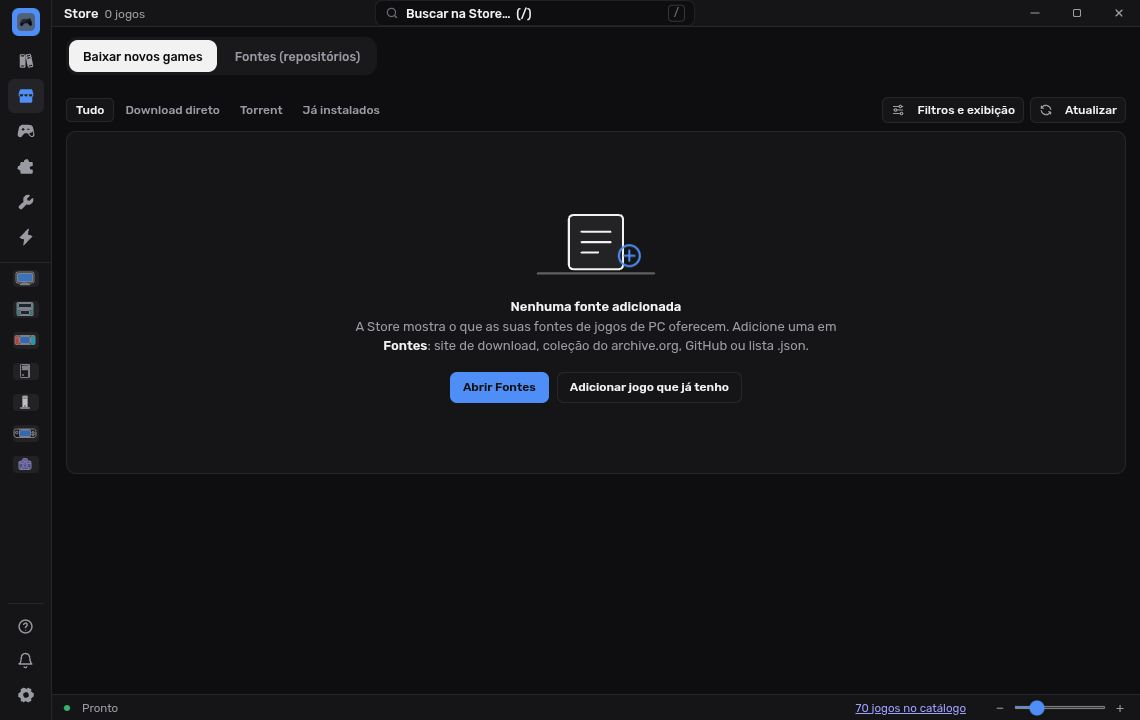
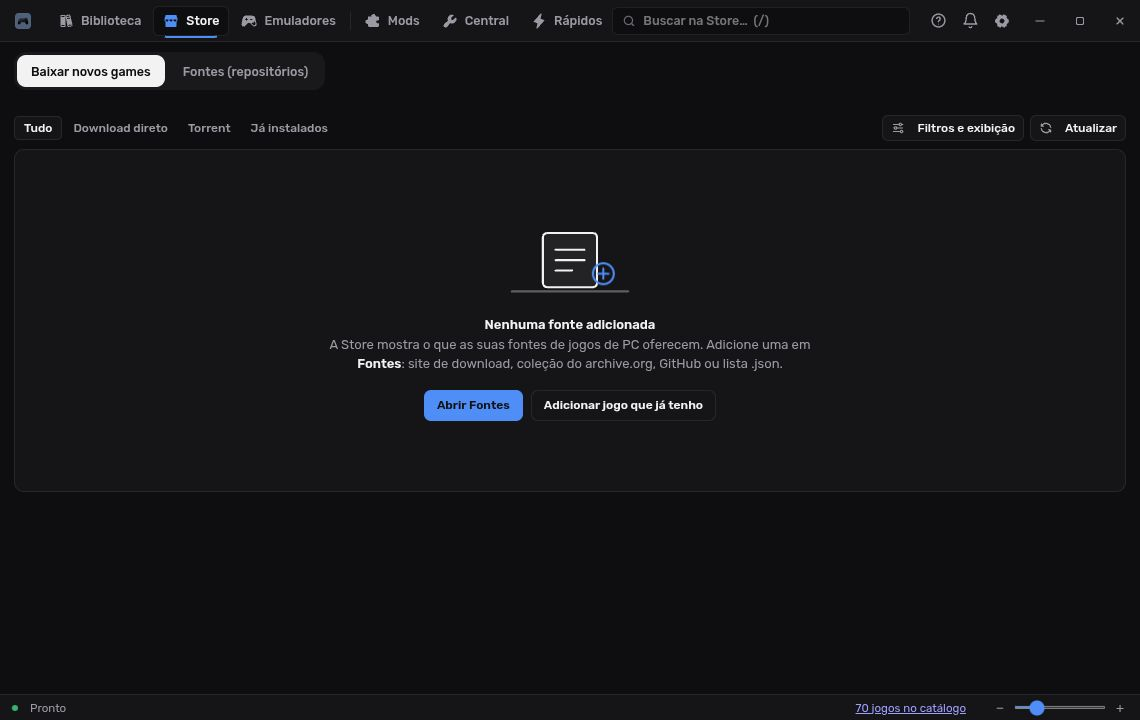
Ludrix 4.0.22

diff --git a/src/renderer/base.css b/src/renderer/base.css
@@ -532,32 +532,32 @@ html body.bs[data-face][data-layout=rail] header.top .sp{flex:0 0 150px}
 html body.bs[data-face][data-layout=rail] header.top .wctl{margin-left:0}
 html body.bs[data-face] header.top .crumb{display:none}
 
-html body.bs[data-face][data-layout=rail] .view{padding:0 14px 24px}
-html body.bs[data-face][data-layout=rail] .h1{margin:0 -14px 2px;padding:5px 14px 5px;gap:6px;background:var(--bg)}
-html body.bs[data-face][data-layout=rail] .h1 h2,html body.bs[data-face][data-layout=rail] .h1 .cnt{display:none}
-html body.bs[data-face][data-layout=rail] .h1 .qchips .chip,html body.bs[data-face][data-layout=rail] .h1 .chips .chip{height:24px;padding:0 9px;border-radius:5px;font-size:12px;border:0;background:transparent;color:var(--muted)}
-html body.bs[data-face][data-layout=rail] .h1 .qchips .chip.on,html body.bs[data-face][data-layout=rail] .h1 .chips .chip.on{background:var(--bg2);color:var(--text);font-weight:500;border:1px solid var(--line)}
-html body.bs[data-face][data-layout=rail] .h1 .btn.xs,html body.bs[data-face][data-layout=rail] .h1 .dd,html body.bs[data-face][data-layout=rail] .h1 .filt>.btn{height:26px;padding:0 8px;font-size:12px;border-radius:6px}
-html body.bs[data-face][data-layout=rail] .h1 .btn.xs.ic{width:26px}
-html body.bs[data-face][data-layout=rail] .h1 .btn.xs.p{background:var(--text);border-color:var(--text);color:var(--bg);font-weight:500;padding:0 10px}
-html body.bs[data-face][data-layout=rail] .h1 .btn.xs.p svg{color:var(--bg)}
-html body.bs[data-face][data-layout=rail] .ggh{top:36px;padding:8px 0 6px;gap:10px}
-html body.bs[data-face][data-layout=rail] .grid{gap:12px 10px;padding-top:2px}
-html body.bs[data-face][data-layout=rail] .card .cov{border-radius:6px;border:1px solid var(--line);outline:0;box-shadow:none;transition:outline-color .15s}
-html body.bs[data-face][data-layout=rail] .card:hover .cov,html body.bs[data-face][data-layout=rail] .card.sel .cov,html body.bs[data-face][data-layout=rail] .card.gp-focus .cov{outline:2px solid var(--text);outline-offset:-1px}
-html body.bs[data-face][data-layout=rail] .grid .card:hover,html body.bs[data-face][data-layout=rail] .grid .card.gp-focus{transform:none;box-shadow:none;background:transparent}
-html body.bs[data-face][data-layout=rail] .grid .card:hover .cov,html body.bs[data-face][data-layout=rail] .grid .card.gp-focus .cov{transform:none;box-shadow:none}
-html body.bs[data-face][data-layout=rail] .card h4{font-size:13px;padding-top:6px}
-html body.bs[data-face][data-layout=rail] .card .sub.ci{font-size:11.5px;color:var(--muted);padding-top:1px}
-html body.bs[data-face][data-layout=rail] .card .qp{width:28px;height:28px;right:6px;bottom:6px;background:var(--text);color:var(--bg);box-shadow:0 2px 8px rgba(0,0,0,.4);transform:none}
-html body.bs[data-face][data-layout=rail] .card .qp svg{width:13px;height:13px}
-html body.bs[data-face][data-layout=rail] .card .rib{top:6px;bottom:auto;left:6px;font:600 9.5px/1 var(--font-text);letter-spacing:.4px;padding:3px 5px;border-radius:3px;background:rgba(0,0,0,.62);color:#fff;box-shadow:none}
-html body.bs[data-face][data-layout=rail] .card .rib.today{background:rgba(0,0,0,.62)}
-html body.bs[data-face][data-layout=rail] .card .rib.upd{background:rgba(0,0,0,.62)}
-html body.bs[data-face][data-layout=rail] .status{padding:0 12px;gap:12px;font-size:11.5px}
-html body.bs[data-face][data-layout=rail] .toast{border-radius:8px;padding:9px 10px 9px 12px;min-width:260px;gap:10px}
-html body.bs[data-face][data-layout=rail] .toast .x{width:22px;height:22px}
-html body.bs[data-face][data-layout=rail] .toasts{top:calc(var(--tb,0px) + 82px);right:14px}
+html body.bs[data-face]:is([data-layout=rail],[data-layout=top]) .view{padding:0 14px 24px}
+html body.bs[data-face]:is([data-layout=rail],[data-layout=top]) .h1{margin:0 -14px 2px;padding:5px 14px 5px;gap:6px;background:var(--bg)}
+html body.bs[data-face]:is([data-layout=rail],[data-layout=top]) .h1 h2,html body.bs[data-face]:is([data-layout=rail],[data-layout=top]) .h1 .cnt{display:none}
+html body.bs[data-face]:is([data-layout=rail],[data-layout=top]) .h1 .qchips .chip,html body.bs[data-face]:is([data-layout=rail],[data-layout=top]) .h1 .chips .chip{height:24px;padding:0 9px;border-radius:5px;font-size:12px;border:0;background:transparent;color:var(--muted)}
+html body.bs[data-face]:is([data-layout=rail],[data-layout=top]) .h1 .qchips .chip.on,html body.bs[data-face]:is([data-layout=rail],[data-layout=top]) .h1 .chips .chip.on{background:var(--bg2);color:var(--text);font-weight:500;border:1px solid var(--line)}
+html body.bs[data-face]:is([data-layout=rail],[data-layout=top]) .h1 .btn.xs,html body.bs[data-face]:is([data-layout=rail],[data-layout=top]) .h1 .dd,html body.bs[data-face]:is([data-layout=rail],[data-layout=top]) .h1 .filt>.btn{height:26px;padding:0 8px;font-size:12px;border-radius:6px}
+html body.bs[data-face]:is([data-layout=rail],[data-layout=top]) .h1 .btn.xs.ic{width:26px}
+html body.bs[data-face]:is([data-layout=rail],[data-layout=top]) .h1 .btn.xs.p{background:var(--text);border-color:var(--text);color:var(--bg);font-weight:500;padding:0 10px}
+html body.bs[data-face]:is([data-layout=rail],[data-layout=top]) .h1 .btn.xs.p svg{color:var(--bg)}
+html body.bs[data-face]:is([data-layout=rail],[data-layout=top]) .ggh{top:36px;padding:8px 0 6px;gap:10px}
+html body.bs[data-face]:is([data-layout=rail],[data-layout=top]) .grid{gap:12px 10px;padding-top:2px}
+html body.bs[data-face]:is([data-layout=rail],[data-layout=top]) .card .cov{border-radius:6px;border:1px solid var(--line);outline:0;box-shadow:none;transition:outline-color .15s}
+html body.bs[data-face]:is([data-layout=rail],[data-layout=top]) .card:hover .cov,html body.bs[data-face]:is([data-layout=rail],[data-layout=top]) .card.sel .cov,html body.bs[data-face]:is([data-layout=rail],[data-layout=top]) .card.gp-focus .cov{outline:2px solid var(--text);outline-offset:-1px}
+html body.bs[data-face]:is([data-layout=rail],[data-layout=top]) .grid .card:hover,html body.bs[data-face]:is([data-layout=rail],[data-layout=top]) .grid .card.gp-focus{transform:none;box-shadow:none;background:transparent}
+html body.bs[data-face]:is([data-layout=rail],[data-layout=top]) .grid .card:hover .cov,html body.bs[data-face]:is([data-layout=rail],[data-layout=top]) .grid .card.gp-focus .cov{transform:none;box-shadow:none}
+html body.bs[data-face]:is([data-layout=rail],[data-layout=top]) .card h4{font-size:13px;padding-top:6px}
+html body.bs[data-face]:is([data-layout=rail],[data-layout=top]) .card .sub.ci{font-size:11.5px;color:var(--muted);padding-top:1px}
+html body.bs[data-face]:is([data-layout=rail],[data-layout=top]) .card .qp{width:28px;height:28px;right:6px;bottom:6px;background:var(--text);color:var(--bg);box-shadow:0 2px 8px rgba(0,0,0,.4);transform:none}
+html body.bs[data-face]:is([data-layout=rail],[data-layout=top]) .card .qp svg{width:13px;height:13px}
+html body.bs[data-face]:is([data-layout=rail],[data-layout=top]) .card .rib{top:6px;bottom:auto;left:6px;font:600 9.5px/1 var(--font-text);letter-spacing:.4px;padding:3px 5px;border-radius:3px;background:rgba(0,0,0,.62);color:#fff;box-shadow:none}
+html body.bs[data-face]:is([data-layout=rail],[data-layout=top]) .card .rib.today{background:rgba(0,0,0,.62)}
+html body.bs[data-face]:is([data-layout=rail],[data-layout=top]) .card .rib.upd{background:rgba(0,0,0,.62)}
+html body.bs[data-face]:is([data-layout=rail],[data-layout=top]) .status{padding:0 12px;gap:12px;font-size:11.5px}
+html body.bs[data-face]:is([data-layout=rail],[data-layout=top]) .toast{border-radius:8px;padding:9px 10px 9px 12px;min-width:260px;gap:10px}
+html body.bs[data-face]:is([data-layout=rail],[data-layout=top]) .toast .x{width:22px;height:22px}
+html body.bs[data-face]:is([data-layout=rail],[data-layout=top]) .toasts{top:calc(var(--tb,0px) + 82px);right:14px}
 html body.bs[data-face][data-detart=off] .dhero::before{display:none}
 html body.bs[data-face][data-detart=off] .dhero .dcov{margin:14px 24px 0 36px;width:150px}
 html body.bs[data-face][data-detart=off] .dcov img,html body.bs[data-face][data-detart=off] .dcov .dph{outline:0;border:1px solid var(--line)}
@@ -567,4 +567,49 @@ html body.bs[data-face][data-detart=off] .dhead .acts>.btn.g,html body.bs[data-f
 html body.bs[data-face][data-detart=off] .dhead .acts>.btn.g,html body.bs[data-face][data-detart=off] .dhead .acts>.btn.p{padding:0 18px}
 html body.bs[data-face][data-detart=off] .dclose{position:relative;top:auto;left:auto;margin:12px 0 0 36px;background:transparent;color:var(--muted);border:1px solid var(--line);height:26px;font-size:12px}
 html body.bs[data-face][data-detart=off] .dclose:hover{color:var(--text);background:var(--bg2)}
-@media (max-width:1000px){html body.bs[data-face][data-layout=rail] .h1 .qchips{order:0;flex:1 0 100%;padding:0 0 4px;margin-bottom:2px;border-bottom:1px solid var(--line)}html body.bs[data-face][data-layout=rail] .h1 .sp{flex:1}}
+@media (max-width:1000px){html body.bs[data-face]:is([data-layout=rail],[data-layout=top]) .h1 .qchips{order:0;flex:1 0 100%;padding:0 0 4px;margin-bottom:2px;border-bottom:1px solid var(--line)}html body.bs[data-face]:is([data-layout=rail],[data-layout=top]) .h1 .sp{flex:1}}
+
+html body.bs[data-face][data-layout=top]{--toph:42px}
+html body.bs[data-face][data-layout=top] .rail{padding:0 8px 0 10px;gap:0;background:var(--bg2)}
+html body.bs[data-face][data-layout=top] .rail .brandrow{padding:0 8px 0 0;margin:0 4px 0 0}
+html body.bs[data-face][data-layout=top] .rail .brand{width:26px;height:26px;border-radius:6px}
+html body.bs[data-face][data-layout=top] .rail .brand svg,html body.bs[data-face][data-layout=top] .rail .brand img{width:16px;height:16px}
+html body.bs[data-face][data-layout=top] .rail .bname{display:none}
+html body.bs[data-face][data-layout=top] .rb,html body.bs[data-face][data-layout=top] .rail .rb{height:30px;padding:0 10px;gap:7px;border-radius:6px;font-size:12.5px}
+html body.bs[data-face][data-layout=top] .rail .rb svg{width:16px;height:16px}
+html body.bs[data-face][data-layout=top] .rail .rb.on{background:var(--bg);box-shadow:inset 0 0 0 1px var(--line)}
+html body.bs[data-face][data-layout=top] .rail .rsep{margin:0 4px}
+html body.bs[data-face][data-layout=top] .rail .search{position:relative;flex:0 1 300px;min-width:120px;margin:0 8px 0 auto;padding:0}
+html body.bs[data-face][data-layout=top] .rail .search input{height:28px;font-size:12.5px;padding-left:30px;background:var(--bg);border:1px solid var(--line);border-radius:6px;width:100%}
+html body.bs[data-face][data-layout=top] .rail .search svg{width:14px;height:14px;left:10px}
+html body.bs[data-face][data-layout=top] .rail .search kbd,html body.bs[data-face][data-layout=top] .rail .search .kb{display:none}
+html body.bs[data-face][data-layout=top] .rail .sp{flex:0 0 0}
+html body.bs[data-face][data-layout=top] .rail .rbot{gap:0;padding-left:4px}
+html body.bs[data-face][data-layout=top] .rail .rbot .bell,html body.bs[data-face][data-layout=top] .rail .rbot .rb{width:32px;height:30px;border-radius:6px}
+html body.bs[data-face][data-layout=top] .rail .rbot #profBtn .pav{width:22px;height:22px;font-size:9.5px}
+html body.bs[data-face][data-layout=top] header.top{display:none!important}
+html body.bs[data-face][data-layout=top] .ggh{top:0}
+html body.bs[data-face][data-layout=top] .h1{padding-top:8px}
+html body.bs[data-face][data-layout=top] .ggh{top:40px}
+body.frameless[data-layout=top] .rail .wctl{margin:0 -8px 0 2px}
+body.frameless[data-layout=top] .rail .wctl button{width:40px}
+html body.bs[data-face]:is([data-layout=rail],[data-layout=top]) .gpanel{border-left:1px solid var(--line);border-radius:0;background:var(--bg2)}
+html body.bs[data-face]:is([data-layout=rail],[data-layout=top]) .gpanel .gband{height:0;background:transparent!important}
+html body.bs[data-face]:is([data-layout=rail],[data-layout=top]) .gpanel .gclose{top:10px;right:10px;background:transparent;color:var(--muted);border:1px solid var(--line);width:26px;height:26px;z-index:2}
+html body.bs[data-face]:is([data-layout=rail],[data-layout=top]) .gpanel .gclose:hover{color:var(--text);background:var(--bg)}
+html body.bs[data-face]:is([data-layout=rail],[data-layout=top]) .gpanel .ghead{margin-top:14px;padding:0 16px;align-items:flex-start;gap:12px}
+html body.bs[data-face]:is([data-layout=rail],[data-layout=top]) .gpanel .gcov{width:96px;outline:0;border:1px solid var(--line);border-radius:6px}
+html body.bs[data-face]:is([data-layout=rail],[data-layout=top]) .gpanel .gti{padding:4px 28px 0 0}
+html body.bs[data-face]:is([data-layout=rail],[data-layout=top]) .gpanel h1{font-size:16px}
+html body.bs[data-face]:is([data-layout=rail],[data-layout=top]) .gpanel .gacts{padding:14px 16px 0}
+html body.bs[data-face]:is([data-layout=rail],[data-layout=top]) .gpanel .gacts .btn.p{height:32px;font-size:13px;background:var(--text);border-color:var(--text);color:var(--bg)}
+html body.bs[data-face]:is([data-layout=rail],[data-layout=top]) .gpanel .gacts .btn.p svg{color:var(--bg)}
+html body.bs[data-face]:is([data-layout=rail],[data-layout=top]) .gpanel .gacts .btn.s{width:32px;height:32px}
+html body.bs[data-face]:is([data-layout=rail],[data-layout=top]) .gpanel .gkpi{margin:12px 16px 0;border-radius:6px}
+html body.bs[data-face]:is([data-layout=rail],[data-layout=top]) .gpanel .gkpi div{padding:7px 9px;background:var(--bg)}
+html body.bs[data-face]:is([data-layout=rail],[data-layout=top]) .gpanel .gkpi b{font-size:13px}
+html body.bs[data-face]:is([data-layout=rail],[data-layout=top]) .gpanel .gkv{margin:8px 16px 0;font-size:12px}
+html body.bs[data-face]:is([data-layout=rail],[data-layout=top]) .gpanel .gkv div{padding:6px 0}
+html body.bs[data-face]:is([data-layout=rail],[data-layout=top]) .gpanel .pst{padding:12px 16px 0}
+html body.bs[data-face]:is([data-layout=rail],[data-layout=top]) .gpanel .glinks{padding:10px 12px}
+html body.bs[data-face]:is([data-layout=rail],[data-layout=top]) .gpanel .glinks button{height:34px}

diff --git a/src/renderer/app.js b/src/renderer/app.js
@@ -367,7 +367,7 @@ function applyChrome() {
   document.body.dataset.status = S.config.status_position === 'top' ? 'top' : 'bottom';
   const lay0 = themeLay(), lay = lay0 === 'float' ? 'rail' : lay0 === 'sfloat' ? 'side' : lay0; document.body.classList.toggle('rfloat', lay0 === 'float' || lay0 === 'sfloat'); delete document.body.dataset.layout; document.body.dataset.nav = lay === 'bottom' ? 'bottom' : 'side';
   if (lay === 'top' || lay === 'rail') document.body.dataset.layout = lay;
-  const qb = $('#qbox'), sp = lay === 'side' ? 'rail' : 'top'; if (qb) { const host = sp === 'rail' ? $('#rail') : $('#brandBtn').parentElement; if (qb.parentElement !== host) { if (sp === 'rail') $('#rail .brandrow').after(qb); else $('#brandBtn').after(qb); } document.body.dataset.search = sp; } document.body.dataset.navLabels = '1';
+  const qb = $('#qbox'), sp = lay === 'side' ? 'rail' : lay === 'top' ? 'nav' : 'top'; if (qb) { const host = sp === 'top' ? $('#brandBtn').parentElement : $('#rail'); if (qb.parentElement !== host || (sp === 'nav') !== (qb.nextElementSibling === $('#railBot'))) { if (sp === 'rail') $('#rail .brandrow').after(qb); else if (sp === 'nav') $('#railBot').before(qb); else $('#brandBtn').after(qb); } document.body.dataset.search = sp; } document.body.dataset.navLabels = '1';
   placeWctl(lay);
   const b = $('#brand'); if (b && !b.innerHTML) b.innerHTML = logoSvg(); const hb = $('#brandBtn'); if (hb && !hb.innerHTML) { hb.innerHTML = logoSvg() + '<svg class="car" viewBox="0 0 24 24"><path d="m6 9 6 6 6-6"/></svg>'; hb.onclick = e => { e.stopPropagation(); const r = hb.getBoundingClientRect(); if ($('#ctx').classList.contains('on')) return closeCtx(); appMenu(r.left, r.bottom + 6); }; }
   if (b) { b.onclick = e => { e.stopPropagation(); const r = b.getBoundingClientRect(); if ($('#ctx').classList.contains('on')) return closeCtx(); appMenu(r.right + 6, r.top); }; b.style.cursor = 'pointer'; b.title = 'Menu do Ludrix'; }
@@ -920,7 +920,7 @@ function fillGrid(list) {
   gridIO.observe(sent);
 }
 function listMode() { return S.config.view_mode === 'list'; }
-function muralMode() { return (S.config.view_mode || 'grid') === 'mural' && S.view === 'home'; }
+function muralMode() { return (S.config.view_mode || 'mural') === 'mural' && S.view === 'home'; }
 function setCardSize(v, save) { document.documentElement.style.setProperty('--cw', v + 'px'); S.config.card_size = +v; if (save) api.post('/api/config', { card_size: +v }); }
 function selectGame(key) {
   if (!S.byKey[key]) return;
@@ -2844,7 +2844,7 @@ function fpDelPreset() {
 function viewTweaks() {
   if (!['home', 'store'].includes(S.view)) return 0;
   const defS = S.view === 'store' ? 'fresh' : 'az', defG = S.view === 'store' ? '' : 'letter';
-  return (S.sort !== defS || S.sortRev ? 1 : 0) + (groupBy() !== defG ? 1 : 0) + ((S.config.view_mode || 'grid') !== 'grid' ? 1 : 0);
+  return (S.sort !== defS || S.sortRev ? 1 : 0) + (groupBy() !== defG ? 1 : 0) + ((S.config.view_mode || 'mural') !== 'mural' ? 1 : 0);
 }
 function filterBtn() {
   const n = fltCount() + viewTweaks();
@@ -2861,9 +2861,9 @@ function fpViewHtml() {
       <label class="fbox ${S.sortRev ? 'on' : ''}"><input type="checkbox" ${S.sortRev ? 'checked' : ''} onchange="S.sortRev=!S.sortRev;S.page=1;renderLibrary()"><span>Ordem inversa</span></label>
       ${S.view === 'home' ? `<label class="fbox ${S.config.fav_first ? 'on' : ''}"><input type="checkbox" ${S.config.fav_first ? 'checked' : ''} onchange="setCfg({fav_first:!S.config.fav_first}).then(()=>{S.page=1;renderLibrary()})"><span>Favoritos primeiro</span></label>` : ''}
       <h6>Agrupar</h6>${seg(GROUPS, g, id => `setGroupBy(${jsq(id)})`)}${g ? `<div class="gall"><button class="lnk" onclick="groupsAll(true)">Recolher todos</button><button class="lnk" onclick="groupsAll(false)">Expandir todos</button></div>` : ''}
-      <h6>Modo</h6>${seg([['mural', 'Mural'], ['grid', 'Grade'], ['list', 'Lista']], S.config.view_mode || 'grid', id => `setViewMode(${jsq(id)})`)}
+      <h6>Modo</h6>${seg([['mural', 'Mural'], ['grid', 'Grade'], ['list', 'Lista']], S.config.view_mode || 'mural', id => `setViewMode(${jsq(id)})`)}
       ${lm ? `<h6>Colunas da lista</h6><div class="seg fsort">${LIST_COLS.map(([id, l]) => `<button class="${listCols().includes(id) ? 'on' : ''}" onclick="toggleListCol(${jsq(id)})">${l}</button>`).join('')}</div>` : `<h6>Tamanho das capas</h6><label class="zoom vz"><svg viewBox="0 0 24 24"><rect x="3" y="3" width="7" height="7" rx="1.5"/><rect x="14" y="3" width="7" height="7" rx="1.5"/><rect x="3" y="14" width="7" height="7" rx="1.5"/><rect x="14" y="14" width="7" height="7" rx="1.5"/></svg><input type="range" min="100" max="300" step="10" value="${S.config.card_size || 136}" oninput="setCardSize(this.value,false)" onchange="setCardSize(this.value,true)"></label>`}
-      ${n ? `<button class="lnk fsmore" onclick="S.sortRev=false;setSort(${jsq(defS)});setGroupBy(${jsq(defG)}).then(()=>setCfg({view_mode:'grid'}).then(renderLibrary))">Voltar ao padrão</button>` : ''}
+      ${n ? `<button class="lnk fsmore" onclick="S.sortRev=false;setSort(${jsq(defS)});setGroupBy(${jsq(defG)}).then(()=>setCfg({view_mode:'mural'}).then(renderLibrary))">Voltar ao padrão</button>` : ''}
     </div>` : ''}</div>`;
 }
 const SYS_ALIAS = { ps1: ['ps1', 'psx', 'psone', 'playstation1', 'play1'], ps2: ['ps2', 'playstation2', 'play2'], ps3: ['ps3', 'playstation3', 'play3'], psp: ['psp'], snes: ['snes', 'supernintendo'], nes: ['nes', 'nintendinho', 'famicom'], n64: ['n64', 'nintendo64'], gc: ['gc', 'gamecube', 'ngc'], wii: ['wii'], wiiu: ['wiiu'], switch: ['switch', 'nsw'], '3ds': ['3ds'], nds: ['ds', 'nds'], gba: ['gba'], gbc: ['gbc'], gb: ['gb', 'gameboy'], dc: ['dc', 'dreamcast'], saturn: ['saturn'], genesis: ['genesis', 'megadrive', 'md'], sms: ['sms', 'mastersystem'], xbox: ['xbox'], x360: ['x360', 'xbox360'], arcade: ['arcade', 'mame', 'fliperama'], pce: ['pce', 'pcengine', 'turbografx'], dos: ['dos', 'msdos'], atari2600: ['atari', 'atari2600'], pc: ['pc', 'windows', 'computador'] };

diff --git a/src/main/log.ts b/src/main/log.ts
@@ -3,13 +3,37 @@ import path from 'node:path';
 import * as P from './paths';
 const MAX_BYTES = 1_000_000;
 let started = false;
-function rotate() {
+let queue: string[] = [];
+let flushing = false;
+let bytes = 0;
+async function flush() {
+    if (flushing || !queue.length)
+        return;
+    flushing = true;
+    const chunk = queue.join('');
+    queue = [];
     try {
-        const st = fs.statSync(P.LOG_FILE);
-        if (st.size > MAX_BYTES) {
-            fs.copyFileSync(P.LOG_FILE, P.LOG_FILE + '.1');
-            fs.writeFileSync(P.LOG_FILE, '');
+        await fs.promises.appendFile(P.LOG_FILE, chunk, 'utf8');
+        bytes += Buffer.byteLength(chunk);
+        if (bytes > MAX_BYTES) {
+            await fs.promises.copyFile(P.LOG_FILE, P.LOG_FILE + '.1');
+            await fs.promises.writeFile(P.LOG_FILE, '');
+            bytes = 0;
         }
+    }
+    catch {
+    }
+    flushing = false;
+    if (queue.length)
+        setTimeout(flush, 50).unref?.();
+}
+function flushSync() {
+    if (!queue.length)
+        return;
+    const chunk = queue.join('');
+    queue = [];
+    try {
+        fs.appendFileSync(P.LOG_FILE, chunk, 'utf8');
     }
     catch {
     }
@@ -25,9 +49,9 @@ function emit(level, msg, ...rest) {
             return v === undefined ? '?' : typeof v === 'string' ? v : JSON.stringify(v);
         });
         const tail = rest.slice(i).map((r) => (typeof r === 'string' ? r : JSON.stringify(r))).join(' ');
-        const line = `${new Date().toISOString()} ${level} ${text}${tail ? ' ' + tail : ''}\n`;
-        fs.appendFileSync(P.LOG_FILE, line, 'utf8');
-        rotate();
+        queue.push(`${new Date().toISOString()} ${level} ${text}${tail ? ' ' + tail : ''}\n`);
+        if (queue.length === 1)
+            setTimeout(flush, 20).unref?.();
     }
     catch {
     }
@@ -36,7 +60,13 @@ function initLog() {
     try {
         fs.mkdirSync(path.dirname(P.LOG_FILE), { recursive: true });
         fs.appendFileSync(P.LOG_FILE, `\n---- ${new Date().toISOString()} Ludrix ----\n`, 'utf8');
+        try {
+            bytes = fs.statSync(P.LOG_FILE).size;
+        }
+        catch {
+        }
         started = true;
+        process.on('exit', flushSync);
     }
     catch {
         started = false;
@@ -49,4 +79,4 @@ const warn = (m, ...r) => emit('WARN', m, ...r);
 const error = (m, ...r) => emit('ERROR', m, ...r);
 const debug = (m, ...r) => emit('DEBUG', m, ...r);
 
-export { initLog, info, warn, error, debug };
+export { initLog, flushSync, info, warn, error, debug };

diff --git a/src/renderer/settings.js b/src/renderer/settings.js
@@ -105,7 +105,7 @@ async function renderSettings(fresh) {
     <div class="frow"><div class="l"><b>Névoa de cor</b><span>Névoa na cor de destaque, deslizando devagar atrás do conteúdo. Zero desliga</span></div><label class="zoom"><input type="range" min="0" max="100" step="5" value="${c.fog ?? 30}" oninput="S.config.fog=+this.value;applyFog()" onchange="setCfg({fog:+this.value})"></label></div>
     ${sw('high_contrast', 'Alto contraste', 'Bordas e textos mais fortes, sem transparência nem desfoque, foco bem marcado. Liga sozinho quando o Windows está em modo de alto contraste')}`]),
     cartoes: () => sec('cartoes', 'Cartões e listas', [`
-    <div class="frow"><div class="l"><b>Biblioteca e Store</b><span>Com painel, clicar numa capa abre o jogo ao lado; grade mostra só as capas; lista mostra uma linha por jogo com ano, gênero, tamanho e tempo jogado</span></div>${cfgSel('view_mode', [['mural', 'Capas com painel lateral'], ['grid', 'Grade de capas'], ['list', 'Lista']], c.view_mode || 'grid')}</div>
+    <div class="frow"><div class="l"><b>Biblioteca e Store</b><span>Com painel, clicar numa capa abre o jogo ao lado; grade mostra só as capas; lista mostra uma linha por jogo com ano, gênero, tamanho e tempo jogado</span></div>${cfgSel('view_mode', [['mural', 'Capas com painel lateral'], ['grid', 'Grade de capas'], ['list', 'Lista']], c.view_mode || 'mural')}</div>
     <div class="frow"><div class="l"><b>Agrupar por</b><span>Cabeçalhos recolhíveis na Biblioteca; a ordenação vale dentro de cada grupo. A Store tem o próprio agrupamento no menu Exibição</span></div>${cfgSel('group_by', GROUPS, c.group_by ?? 'letter')}</div>
     ${sw('fav_first', 'Favoritos primeiro', 'Mantém os favoritos no topo da lista em qualquer ordenação')}
     ${sw('card_ribbons', 'Fitas "Novo" e "Hoje" nas capas', '"Novo" marca jogos instalados há menos de 7 dias que você ainda não abriu; "Hoje" marca os que você jogou hoje')}

diff --git a/src/main/backend.ts b/src/main/backend.ts
@@ -131,11 +131,11 @@ class Backend {
         setInterval(() => this.watchDirs(), 5 * 60_000);
     }
     watchers = new Map<string, { w: fs.FSWatcher; seen: Set<string>; timers: Map<string, NodeJS.Timeout> }>();
-    watchDirs() {
+    async watchDirs() {
         const want = new Set<string>();
         if (this.store.config.watch_dirs !== false) {
             for (const d of [...(this.store.config.game_dirs || []), this.store.config.games_dir || this.store.gamesDir()])
-                if (d && fs.existsSync(String(d)))
+                if (d && await fs.promises.stat(String(d)).then((st) => st.isDirectory(), () => false))
                     want.add(path.resolve(String(d)));
         }
         for (const [d, w] of this.watchers)
@@ -152,7 +152,7 @@ class Backend {
             if (this.watchers.has(d))
                 continue;
             try {
-                const seen = new Set(fs.readdirSync(d, { withFileTypes: true }).filter((e) => e.isDirectory()).map((e) => e.name.toLowerCase()));
+                const seen = new Set((await fs.promises.readdir(d, { withFileTypes: true })).filter((e) => e.isDirectory()).map((e) => e.name.toLowerCase()));
                 const entry = { w: null as any, seen, timers: new Map<string, NodeJS.Timeout>() };
                 entry.w = fs.watch(d, { persistent: false }, (_ev, name) => {
                     const n = String(name || '');

diff --git a/src/main/store.ts b/src/main/store.ts
@@ -68,7 +68,7 @@ const DEFAULT_CONFIG = {
     taskbar_progress: true,
     store_notify_new: true,
     card_size: 136,
-    view_mode: 'grid',
+    view_mode: 'mural',
     list_cols: ['year', 'genre', 'size', 'playtime', 'last', 'status'],
     game_backdrop: '',
     backdrop_blur: 10,
@@ -172,7 +172,7 @@ const DEFAULT_CONFIG = {
     gamepad_enabled: true,
     gamepad: 'auto',
     sofa_zoom: 1.15,
-    nav_layout: 'rail',
+    nav_layout: 'top',
     gamepad_wake: false,
     mods_dir: '',
     update_feed: '',
@@ -447,6 +447,10 @@ class Store {
                     this.config.card_origin = false;
                     this.config.acrylic = false;
                     this.config.detail_art = 'off';
+                }],
+            [14, () => {
+                    this.config.nav_layout = 'top';
+                    this.config.view_mode = 'mural';
                 }],
         ];
         for (const [target, fn] of (steps as any)) {

diff --git a/src/main/index.ts b/src/main/index.ts
@@ -464,6 +464,7 @@ function updateGuard() {
     }
     catch { }
     electron.app.relaunch();
+    log.flushSync();
     electron.app.exit(0);
     return true;
 }
@@ -707,6 +708,7 @@ async function main() {
         }
         catch {
         }
+        log.flushSync();
     });
 }
 process.on('SIGTERM', () => quitApp());

diff --git a/README.md b/README.md
@@ -52,14 +52,14 @@ Requisitos: Windows 10 ou 11, 64 bits. Sem conta, login, WebView2 ou instalaçã
 
 A série 4.0 trocou o motor antigo (Python) por Electron + TypeScript, mantendo a mesma pasta de dados. A versão atual é a **4.0.20**, e o estado do projeto é este:
 
-- **Uma biblioteca só.** Jogos de PC, ROMs e jogos rápidos (Flash/HTML5) aparecem juntos, em grade alfabética com divisórias por letra, capas, categorias e filtros combináveis. Barra de ícones estreita, busca no alto, filtros em uma linha e cada capa com sistema, ano e última vez jogada. Botão Jogar aparece na capa; detalhes com duplo clique ou botão direito.
+- **Uma biblioteca só.** Jogos de PC, ROMs e jogos rápidos (Flash/HTML5) aparecem juntos, em grade alfabética com divisórias por letra, capas, categorias e filtros combináveis. Abas no alto (Biblioteca, Store, Emuladores…), busca ao lado, filtros em uma linha e cada capa com sistema, ano e última vez jogada. Um clique na capa abre o painel lateral com Jogar, tempo, pasta e gêneros; duplo clique abre os detalhes.
 - **Store alimentada por fontes.** Nenhum catálogo vem embutido. A Store só mostra o que as listas `.json`, páginas, coleções do archive.org, repositórios do GitHub ou pastas locais adicionadas pelo usuário oferecem. Download direto, hospedeiros e torrent (sem DHT, UPnP ou NAT-PMP).
 - **Emuladores prontos.** 25 sistemas e 45 emuladores catalogados, instalados do site oficial com um clique e guardados dentro da pasta do Ludrix. As ROMs entram na Biblioteca com capa e são abertas pelo emulador escolhido para aquele sistema.
 - **Aparência "Base".** Interface flat, cor sólida e linha fina, 13 px de base, fonte Rubik e ícones Tabler. Dois temas embutidos (Escuro e Claro, preto e branco de verdade) e suporte a temas externos `.lxtheme`. Glass (acrílico do Windows 11) opcional, com cartões e popups sempre sólidos por cima.
 - **Movimento leve.** As animações são curtas e independentes das configurações de animação do Windows; "Reduzir movimento" desliga tudo. Trocar de página é instantâneo, sem piscar nem deslocar o conteúdo.
 - **Névoa de cor.** Manchas suaves na cor de destaque atravessam o fundo da janela lentamente, como nuvens — inclusive atrás da barra lateral. Intensidade de 0 a 100 em Ajustes › Aparência.
 - **Perfis locais.** Cada pessoa com seu tema, aparência, exibição e preferências; a biblioteca, capas, saves e downloads são os mesmos para todos. Sem senha: ao abrir, o Ludrix pergunta quem vai jogar (opcional) e a troca fica no avatar da barra lateral.
-- **Barra de navegação a gosto.** Só ícones (padrão), lateral com nomes, no alto, embaixo, ou **solta**: separada do conteúdo, com cantos arredondados.
+- **Barra de navegação a gosto.** No alto (padrão), lateral só ícones, lateral com nomes, embaixo, ou **solta**: separada do conteúdo, com cantos arredondados.
 - **Rápido em HDD.** A biblioteca abre de um cache frio enquanto o disco acorda; a verificação de integridade roda depois, sem segurar a tela. Um script opcional (`Ludrix-HDD.ps1`) ajusta o Windows para HDs mecânicos sem tocar nos dados.
 - **Portátil e previsível.** Tudo fica na pasta (`data/`, `games/`, `emulation/`, `downloads/`). Nada é gravado fora dela, nada roda depois de Sair, e cada atualização substitui o programa inteiro mantendo só os dados do usuário.
 - **Em português do Brasil e inglês**, com tudo que é adicionado chegando nos dois idiomas ao mesmo tempo.

diff --git a/README.en.md b/README.en.md
@@ -52,14 +52,14 @@ Requirements: Windows 10 or 11, 64-bit. No account, login, WebView2 or installat
 
 The 4.0 series replaced the old Python engine with Electron + TypeScript while keeping the same data folder. The current version is **4.0.20**, and this is the state of the project:
 
-- **One library.** PC games, ROMs and quick games (Flash/HTML5) sit together in an alphabetical grid with letter dividers, covers, categories and combinable filters. Narrow icon bar, search at the top, filters on one line and every cover with system, year and last played. Play shows on the cover; details on double-click or right-click.
+- **One library.** PC games, ROMs and quick games (Flash/HTML5) sit together in an alphabetical grid with letter dividers, covers, categories and combinable filters. Tabs at the top (Library, Store, Emulators…), search beside them, filters on one line and every cover with system, year and last played. One click on a cover opens the side pane with Play, playtime, folder and genres; double-click opens the details.
 - **A Store fed by sources.** No catalogue is bundled. The Store only shows what the `.json` lists, web pages, archive.org collections, GitHub repositories or local folders added by the user provide. Direct download, file hosts and torrent (no DHT, UPnP or NAT-PMP).
 - **Ready-to-use emulators.** 25 systems and 45 emulators catalogued, installed from the official site in one click and kept inside the Ludrix folder. ROMs join the Library with covers and open with the emulator chosen for that system.
 - **The "Base" look.** Flat interface, solid colour and thin lines, 13 px base size, Rubik typeface and Tabler icons. Two built-in themes (Dark and Light, truly black and white) plus external `.lxtheme` themes. Optional Glass (Windows 11 acrylic) with cards and popups always solid on top.
 - **Light motion.** Animations are short and independent from Windows' animation settings; "Reduce motion" turns everything off. Switching pages is instant, with no flashing or content shifting.
 - **Colour fog.** Soft accent-coloured patches drift slowly across the window background like clouds — behind the side bar too. Intensity from 0 to 100 in Settings › Appearance.
 - **Local profiles.** Each person with their own theme, appearance, display and preferences; the library, covers, saves and downloads are shared by everyone. No password: on startup Ludrix asks who is playing (optional) and switching lives in the sidebar avatar.
-- **The navigation bar your way.** Icons only (default), side with names, top, bottom, or **floating**: detached from the content with rounded corners.
+- **The navigation bar your way.** Top (default), side with icons only, side with names, bottom, or **floating**: detached from the content with rounded corners.
 - **Fast on hard drives.** The library opens from a cold cache while the disk spins up; the integrity check runs afterwards without holding the screen. An optional script (`Ludrix-HDD.ps1`) tunes Windows for mechanical drives without touching any data.
 - **Portable and predictable.** Everything stays in the folder (`data/`, `games/`, `emulation/`, `downloads/`). Nothing is written outside it, nothing keeps running after Quit, and every update replaces the whole program while keeping only user data.
 - **Brazilian Portuguese and English**, with everything new landing in both languages at the same time.

diff --git a/CHANGELOG.md b/CHANGELOG.md
@@ -1,5 +1,11 @@
 # Changelog
 
+## 4.0.22 — 2026-11-12
+
+- Interface: navegação por abas no alto (Biblioteca, Store, Emuladores, Mods, Central, Rápidos) com a busca ao lado; painel lateral do jogo selecionado sem faixa de cor, botão Jogar plano, blocos menores. Grade, chips, selos e detalhes seguem compactos. Quem preferir a barra lateral de ícones troca em Ajustes › Aparência › Barra de navegação.
+- Registro de atividade (`data/ludrix.log`) passa a ser gravado em segundo plano, em lotes; o processo principal não espera mais o disco a cada linha — em HD que dormiu, isso segurava a janela.
+- Vigilância das pastas de jogos (a cada 5 min) deixa de tocar o disco de forma bloqueante.
+
 ## 4.0.21-hf1 — 2026-11-12
 - Botão Voltar dos detalhes ficava escondido atrás da barra de busca; agora fica no fluxo da página, acima da capa.
 - Fileira de etiquetas repetidas no topo dos detalhes (origem, tempo, gêneros, ano, "meta") removida — origem e fonte dos metadados passam para o quadro Informações.
